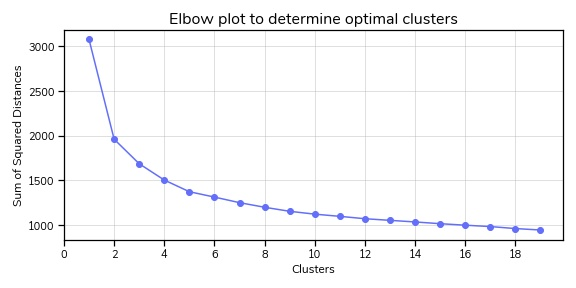
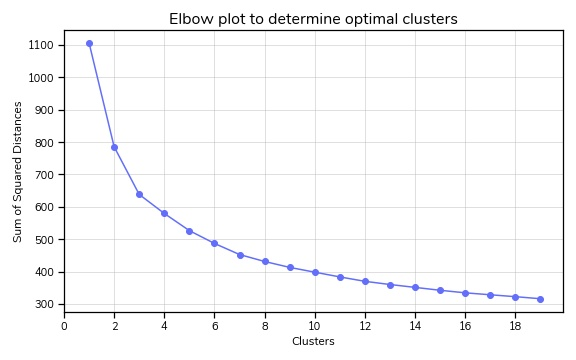
Adding Story.md, resizing plots

Changed region(s): [[0.0, 0.0312, 1.0, 0.9688]]

diff --git a/README.md b/README.md
@@ -6,10 +6,11 @@ A Data Geek's take on the question ***'How have music tastes changed through the
 ![](/images/window_vinyl.jpg)
 <span>Photo by <a href="https://unsplash.com/@shutters_guild?utm_source=unsplash&amp;utm_medium=referral&amp;utm_content=creditCopyText">Travis Yewell</a> on <a href="https://unsplash.com/@tanulmathur/likes?utm_source=unsplash&amp;utm_medium=referral&amp;utm_content=creditCopyText">Unsplash</a></span>
 
+This project is an attempt to collect relevant evidence (data) and analyzing it to get answers for these questions - 
 
-I'm sure many of you would have gone through the following conversation with your parents at some point during your childhood "What is this noise you are listening to? In 'our days' we listened to actual songs with beautiful melodies and soul-touching tunes, not this cacophony of monkeys with instruments!"  To me this always sounded like a classic generalization, a blanket statement comparing the music tastes of generations irrespective of the differences in personal preference. Brushing it aside as generation gap, I never gave second thought to it until recently when I was listening to some of the latest chartbusters of 2021. I couldn't help but think that the tables had turned and I had the same opinion about today's songs as my parents had about the songs I listened to in my childhood. This left me wondering are music trends actually shifting? Are the same kind of songs popular that were chartbusters 50 years ago? Or have we started to love radically different songs?  
-
-This project is an attempt to collect relevant evidence (data) and analyzing it to get answers for these questions.
+* Are music trends actually shifting? 
+* Are the same kind of songs popular that were chartbusters 50 years ago? 
+* Or have we started to love radically different songs?  
 
 &nbsp;
 
@@ -18,146 +19,26 @@ Here's a snapshot of the project workflow -
 
 ![](/plots/Workflow.jpg)
 
-In order to create an unbiased sample of popular songs I decided to use [Billboard's Year-End Hot 100 US](https://en.wikipedia.org/wiki/Billboard_Year-End_Hot_100_singles_of_2020) singles charts. These charts are ideal because their ranking is based on year-long song popularity, which is measured as a combination of offline sales and airplay time. Plus it gives a consistent popularity reference from a general market point of view avoiding any personal opinions/biases. After getting said list I used track and artist names to extract their audio features from the Spotify API and created a final dataset for analysis.
+## Script Glossary
+* [TopMusicChartsScraper.py](https://github.com/tanul-mathur/music-through-the-ages/blob/master/TopMusicChartsScraper.py) - Web scraping script to get track title, artist, rank from Billboard's Wikipedia pages
+* [SpotifyGetAccessToken.py](https://github.com/tanul-mathur/music-through-the-ages/blob/master/SpotifyGetAccessToken.py) - Script to get Spotify API access token
+* [GetSpotifyFeatures.py](https://github.com/tanul-mathur/music-through-the-ages/blob/master/GetSpotifyFeatures.py) - Script to extract Audio features from the Spotify API
 
-### Spotify Audio Features
-Quick context around some of the [Spotify Audio feature definitions](https://developer.spotify.com/documentation/web-api/reference/#endpoint-get-audio-features) most relevant to this analysis using definitions mentioned on their website : 
+## Story
+[Link to the full story](./Story.md)
 
-* **Acousticness** - A confidence measure from 0.0 to 1.0 of whether the track is acoustic. 1.0 represents high confidence the track is acoustic.
-* **Danceability** - Describes how suitable a track is for dancing based on a combination of musical elements including tempo, rhythm stability, beat strength, and overall regularity. A value of 0.0 is least danceable and 1.0 is most danceable.
-* **Energy** - Energy is a measure from 0.0 to 1.0 and represents a perceptual measure of intensity and activity. Typically, energetic tracks feel fast, loud, and noisy. For example, death metal has high energy, while a Bach prelude scores low on the scale. Perceptual features contributing to this attribute include dynamic range, perceived loudness, timbre, onset rate, and general entropy.
-* **Valence** - A measure from 0.0 to 1.0 describing the musical positiveness conveyed by a track. Tracks with high valence sound more positive (e.g. happy, cheerful, euphoric), while tracks with low valence sound more negative (e.g. sad, depressed, angry).
-
-These features are very useful for analysis since rather than representing individual genres they represent the inherent characterstics of the songs.
-
-Now that we have the technicalities covered, let's dive into the dataset and see what we can find. If you are interested in how the data extraction was done you can refer to my [github repo.](https://github.com/tanul-mathur/music-through-the-ages)
+## Key Highlight
+> One underlying theme running across clusters and time is that we love energetic dance songs. The emotional gradient of songs may have shifted to a more neutral tone from the Happy notes of the yester years but throughout the 50 years we have always loved a song that makes us groove!  
 
 &nbsp;
-
-## Data Exploration
-
-First off let's check out Summary stats of the dataset by plotting Histograms.
-
-![](/plots/data_hist.jpeg)
-
-This quickly gives a sneak peak into key highlights -
-* Valence, Acousticess, Energy, Danceability, Loudness - these seem to have the most spread
-* Most songs seem to be skewed towards the higher ranges of Danceability, Energy
-* Mode and Instrumentalness hardly show any spread. They may not be very useful for our analysis here
-* Surprise surprise, instrumental songs are rare among the Top 100s
-
-Now lets standardize these features so that they can all be compared on the same scale.
-
-Quick and dirty box plots of the *scaled* dataset to see the spread of features along the same yardstick -
-
-![](/plots/initial_data_boxplot.jpeg)
-
-Quick and dirty box plots on the standardized features makes it super clear to visualize the overall characterstics of the dataset. Few highlights appear now -
-
- * Dance, Energy, Loudness are definitely key themes, the distribution of songs seems to be skewed towards the higher side
- * Similarly on the other end of the spectrum highly speechy or acoustic songs are a rarity among the top 100
- * Valence - Emotional spectrum of the songs seems to be quite wide spread across happiness to sadness
- * Some features show little no variation across the dataset and are worth cutting loose - Key, Mode, Instrumentalness, Liveness, Duration
-
-Now that we have an understanding of the overall dataset, we need to dive deeper to analyze any shifting patterns. One way can be to use the features above and analyze them over time individually. However, this would turn out to be a siloed approach focused on individual features without any focus towards interactions or common themes among the songs. Another approach can be to group similar songs and then analyze the shifts in features, hoping to unearth some underlying themes.
-
-&nbsp;
-
-## Clustering
-
-This brings us to one of the most popular machine learning algorithms - K-Means clustering. Very simply, K-Means is an unsupervised learning algorithm which uses proximity (closeness) of data points to group them into similar clusters. Most relatable example of clustering would probably be genre-grouping of Web series, Movies, TV shows, Podcasts on any of the various streaming platforms.
-
-### Toe-Dip
-Now even after having a strong intuition to perform Clustering it is important to understand if the dataset actually has the potential of showing any clusters. This can be done by calculating a 'Hopkins Score' on the scaled dataset. Essentially this checks if the dataset is derived from a uniform distribution. If the resulting score is closer to 0 it would suggest that the data is not uniformly distributed and there is merit in using clustering techniques to classify the observations, if it is closer to 0.5 this would mean the dataset is derived from a uniform distribution and there are no underlying clusters. Generally a value less than 0.2 is considered to be acceptable for clustering. [Reference link](https://pyclustertend.readthedocs.io/en/master/) for further reading. The code looks as simple as below - 
-
-```Python
-from pyclustertend import hopkins
-hopkins(norm_stats_df, norm_stats_df.shape[0])
-```
-
-For this Top 100 songs dataset the Hopkins Score came out as ***~0.176***, indicating there were clusters waiting to be uncovered!
-
-### Elbow test
-But how many? We still need to find out the ideal number of clusters before we start implementing K-Means. Firstly, lets try out the traditional 'Elbow Plot'. In this approach we run K-means for range of cluster numbers and record the Within cluster Sum of Squared Distances(WSSD) for each of them. Next we plot the no. of clusters against their respective WSSDs hoping to find a bend/elbow point that makes it obvious what the optimal number of clusters should be. However as every experienced data scientist knows, that is rarely the case.
-
-![](./plots/elbow_plot.jpeg)
-
-
-Seems like 3 clusters is the way ahead, but doesn't feel very conclusive. We can see the reduction in SSD is not worth it after 3 clusters, but what about 7?
-
-In search of another approach to finding out optimal clusters I ended up going back to textbooks. Andy Burkiv's 100 page ML book illustrates an interesting ML approach of calculating **prediction strength** of clusters. The concept is to split the dataset into train/ test, implement clustering on both of them and then compare clusters formed in each of these to determine what %age of points are tagged to the same centroids across train and test. Recommended further reading in the [book](http://themlbook.com/).
-
-Also discovered this [article](https://towardsdatascience.com/prediction-strength-a-simple-yet-relatively-unknown-way-to-evaluate-clustering-2e5eaf56643) online that illustrates the concept with an example.
-
-It's well beyond the scope of this article to get much deeper into the calculations of prediction strength. Let's move on for now and see what prediction strengths look like for our dataset.
-
-![](./plots/prediction_strength_clusters.jpeg)
-
-Right after the 3 cluster point the prediction strength decreases to 60% and further down as the number of clusters is increased. Thus indicating that until 3 clusters the centroids tags are consistent across test and train groups for > 90% of the cases and as we increase clusters the tags become more inconsistent dropping the %age below 60%. This has now provided confidence that 3 clusters is the way to go!
-
-Now let's implement K-Means using the recommended k = 3 and analyze the clusters. First looking at the overall summary stats of the clusters, so things like - location of cluster centers in the feature space, no. of songs in each cluster.  
-
-![](./plots/cluster_summary.jpeg)
-
-Almost half of the songs are tagged into cluster '1', followed by '0' and '2'. The Cluster centers definitely look interesting but it's difficult to compare them on a table, let's see if we can visualize these in a different way.
-
-&nbsp;
-
-![](./plots/clusters_polar.jpeg)
-
-This Polar chart helps put the clusters into perspective, seems like -
-* 0s are Neutral songs with relatively high energy/loudness     - Neutral Energetic
-* 1s are Happy songs with high energy/danceability              - Happy Dance
-* 2s are Soft Acoustic songs with low energy/danceability       - Soft Acoustics
-
-Now of course this is just based on the Cluster Centers (means), lets validate if these themes hold true across the whole dataset.
-
-&nbsp;
-
-![](./plots/clusters_pairplot.jpeg)
-
-Interesting! the Cluster themes definitely hold together across distributions as well!
-* All the charts across the Acousticness and Valence rows clearly demarcate the 'Happy Dance' & 'Soft Acoustic' clusters
-* Especially Acousticness vs Valence - 'Soft Acoustic' songs are bunched on the right-side of the chart. While 'Happy Dance' on the top-left with low acousticness and high valence. Lastly 'Neutral Energetic' on the bottom left are low in both the features
-* The Kernel Density plots also provide helpful insight into the 'Neutral Energetic' cluster, apart from being skewed towards the Neutral-Sad emotional zone these are relatively louder songs, similar energy but lower danceability compared to the 'Happy Dance' songs
-* It's hard to differentiate the clusters in terms of Tempo and speechiness, these are consistent throughout the clusters
-
-Overall quite happy with how the clusters have turned out. One final check to see how cluster features hold up along the years.
-Since I've deliberately excluded 'year' as a feature while clustering this shouldn't be much of an issue.
-
-![](./plots/cluster_features_timeline.jpeg)
-
-These charts show the trends of respective feature means by clusters and time. (I've ignored Tempo & Speechiness from these as they are not relevant to the clusters) For example let's look at the top left chart, which draws the mean values for acousticness by clusters and years. Here we can see that the songs from 'Soft Acoustic' cluster are significantly higher than the remaining clusters and this remains the case throughout the 50 years. Similar trends can be seen across the other charts as well, individual cluster means remain distinct throughout. These trends further validate the consistency of clusters across the years.
-
-Alright so just to recap till now we have created the dataset with 50 years of Top 100 songs along with their audio features, identified song clusters, defined their themes and validated them against the overall dataset and throughout time. Next it's time to answer the big question.
-
-&nbsp;
-
-## How have music trends shifted in the last 50 years?
-
-![](./plots/cluster_songs_timeline.jpeg)
-
-Voila! Music trends have certainly shifted over time!
-* 'Neutral Energetic' songs have increasingly become more and more popular. Starting of from just 12% songs in the Top 100s in the 1970s this category has come up to become the most popular one in the 2010s with majority share of songs of 57%
-* 'Soft Acoustic' songs have lost the most popularity. Fan favorites during the 1970s with 37% share, they have now dropped to only 12% in the 2010s
-* 'Happy Dance' songs certainly seems to be a timelessly popular category till 2000s, but even their share has dropped to only 31% in the 2010s
-
-One underlying theme running across clusters and time is that we love energetic dance songs. The emotional gradient of songs may have shifted to a more neutral tone from the Happy notes of the yester years but throughout the 50 years we have always loved a song that makes us groove!  
-
-&nbsp;
-
-## Conclusion
-Well this brings us to the end of the project for now. Here I've used Web scraping, Audio features from the Spotify API and the K-means clustering algorithm to show that music tastes have indeed shifted in the past 50 years. While there isn't a radical shift in the popularity of danceable & energetic songs (they remain timeless favorites), the emotional gradient has certainly shifted from 'Happy' to more 'Neutral' notes. Hopefully this project shows how we can use/extract relevant data, open source libraries and machine learning to answer seemingly abstract questions.
 
 ## Next Steps
-There are few more interesting areas where I feel this project can be expanded -
+There are few more interesting areas where I would like to expand this project -
 1. Expanding coverage to include songs from (a) 1945, (b) other markets UK, India, etc.
 2. Adding other dimensions of audio data like - genre, lyrics, major instruments used, etc.
 3. It will be great to get sales information around individual albums to give depth into popularity beyond Billboard chart ranks
 4. Web app to let users upload their favorite tracks and predict their age range
 5. Web app that lets users create Spotify playlist of any year's Billboard Top 100 songs
 
-
+## App
 Feel like playing around the dataset? Wonder which artist has the most Hits? Spoiler alert it's not Pink Floyd! Is The Weeknd on there? wait what-about The Beatles?? Head over to the Streamlit app and explore where your favorite artists are among the Top 100 and how their songs have evolved!
-
-Thanks for reading. Hope you had fun, I definitely did. :)

diff --git a/Story.md b/Story.md
@@ -1,0 +1,163 @@
+# Music Through the Ages
+
+A Data Geek's take on the question ***'How have music tastes changed through the years?'***
+
+
+![](/images/window_vinyl.jpg)
+<span>Photo by <a href="https://unsplash.com/@shutters_guild?utm_source=unsplash&amp;utm_medium=referral&amp;utm_content=creditCopyText">Travis Yewell</a> on <a href="https://unsplash.com/@tanulmathur/likes?utm_source=unsplash&amp;utm_medium=referral&amp;utm_content=creditCopyText">Unsplash</a></span>
+
+
+I'm sure many of you would have gone through the following conversation with your parents at some point during your childhood "What is this noise you are listening to? In 'our days' we listened to actual songs with beautiful melodies and soul-touching tunes, not this cacophony of monkeys with instruments!"  To me this always sounded like a classic generalization, a blanket statement comparing the music tastes of generations irrespective of the differences in personal preference. Brushing it aside as generation gap, I never gave second thought to it until recently when I was listening to some of the latest chartbusters of 2021. I couldn't help but think that the tables had turned and I had the same opinion about today's songs as my parents had about the songs I listened to in my childhood. This left me wondering are music trends actually shifting? Are the same kind of songs popular that were chartbusters 50 years ago? Or have we started to love radically different songs?  
+
+This project is an attempt to collect relevant evidence (data) and analyzing it to get answers for these questions.
+
+&nbsp;
+
+## Workflow
+Here's a snapshot of the project workflow -
+
+![](/plots/Workflow.jpg)
+
+In order to create an unbiased collection of popular music I decided to use songs from [Billboard's Year-End Hot 100 US singles charts.](https://en.wikipedia.org/wiki/Billboard_Year-End_Hot_100_singles_of_2020) These charts are ideal because their ranking is based on year-long song popularity, which is measured as a combination of offline sales and airplay time. Plus it gives a consistent popularity reference from a general market point of view avoiding any personal opinions/biases. After scraping said list from their Wikipedia pages I used track and artist names to extract audio features from the Spotify API and created a final dataset for analysis. 
+
+### Spotify Audio Features
+Quick context around some of the [Spotify Audio feature definitions](https://developer.spotify.com/documentation/web-api/reference/#endpoint-get-audio-features) most relevant to this analysis (using definitions as mentioned on the official website) : 
+
+* **Acousticness** - A confidence measure from 0.0 to 1.0 of whether the track is acoustic. 1.0 represents high confidence the track is acoustic.
+* **Danceability** - Describes how suitable a track is for dancing based on a combination of musical elements including tempo, rhythm stability, beat strength, and overall regularity. A value of 0.0 is least danceable and 1.0 is most danceable.
+* **Energy** - Energy is a measure from 0.0 to 1.0 and represents a perceptual measure of intensity and activity. Typically, energetic tracks feel fast, loud, and noisy. For example, death metal has high energy, while a Bach prelude scores low on the scale. Perceptual features contributing to this attribute include dynamic range, perceived loudness, timbre, onset rate, and general entropy.
+* **Valence** - A measure from 0.0 to 1.0 describing the musical positiveness conveyed by a track. Tracks with high valence sound more positive (e.g. happy, cheerful, euphoric), while tracks with low valence sound more negative (e.g. sad, depressed, angry).
+* **Loudness** - The overall loudness of a track in decibels (dB). Loudness values are averaged across the entire track and are useful for comparing relative loudness of tracks. Loudness is the quality of a sound that is the primary psychological correlate of physical strength (amplitude). Values typical range between -60 and 0 db.
+
+These features are very useful for analysis since rather than representing individual genres they represent the inherent characterstics of the songs.
+
+Now that we have the technicalities covered, let's dive into the dataset and see what we can find. If you are interested in how the data extraction was done you can refer to my [github repo.](https://github.com/tanul-mathur/music-through-the-ages)
+
+&nbsp;
+
+## Data Exploration
+
+First off let's check out Summary stats of the dataset by plotting Histograms.
+
+![](/plots/data_hist.jpeg)
+
+This quickly gives a sneak peak into key highlights -
+* Valence, Acousticess, Energy, Danceability, Loudness - these seem to have the most spread
+* Most songs seem to be skewed towards the higher ranges of Danceability, Energy
+* Mode and Instrumentalness hardly show any spread. They may not be very useful for our analysis here
+* Surprise surprise, instrumental songs are rare among the Top 100s
+
+Now lets standardize these features so that they can all be compared on the same scale.
+
+![](/plots/initial_data_boxplot.jpeg)
+
+Quick and dirty box plots on the standardized features makes it super clear to visualize the overall characterstics of the dataset. Few highlights appear now -
+
+ * Dance, Energy, Loudness are definitely key themes, the distribution of songs seems to be skewed towards the higher side
+ * Similarly on the other end of the spectrum highly speechy or acoustic songs are a rarity among the top 100
+ * Valence - Emotional spectrum of the songs seems to be quite wide spread across happiness to sadness
+ * Some features show little no variation across the dataset and are worth cutting loose - Key, Mode, Instrumentalness, Liveness, Duration
+
+Now that we have an understanding of the overall dataset, we need to dive deeper to analyze any shifting patterns. One way can be to use the features above and analyze them over time individually. However, this would turn out to be a siloed approach focused on individual features without any focus towards interactions or common themes among the songs. Another approach can be to group similar songs and then analyze the shifts in features, hoping to unearth some underlying themes.
+
+&nbsp;
+
+## Clustering
+
+This brings us to one of the most popular machine learning algorithms - K-Means clustering. Very simply, K-Means is an unsupervised learning algorithm which uses proximity (closeness) of data points to group them into similar clusters. Most relatable example of clustering would probably be genre-grouping of Web series, Movies, TV shows, Podcasts on any of the various streaming platforms.
+
+### Toe-Dip
+Now even after having a strong intuition to perform Clustering it is important to understand if the dataset actually has the potential of showing any clusters. This can be done by calculating a 'Hopkins Score' on the scaled dataset. Essentially this checks if the dataset is derived from a uniform distribution. If the resulting score is closer to 0 it would suggest that the data is not uniformly distributed and there is merit in using clustering techniques to classify the observations, if it is closer to 0.5 this would mean the dataset is derived from a uniform distribution and there are no underlying clusters. Generally a value less than 0.2 is considered to be acceptable for clustering. [Reference link](https://pyclustertend.readthedocs.io/en/master/) for further reading. The code looks as simple as below - 
+
+```Python
+from pyclustertend import hopkins
+hopkins(norm_stats_df, norm_stats_df.shape[0])
+```
+
+For this Top 100 songs dataset the Hopkins Score came out as ***~0.176***, indicating there were clusters waiting to be uncovered!
+
+### Elbow test
+But how many? We still need to find out the ideal number of clusters before we start implementing K-Means. Firstly, lets try out the traditional 'Elbow Plot'. In this approach we run K-means for range of cluster numbers and record the Within cluster Sum of Squared Distances(WSSD) for each of them. Next we plot the no. of clusters against their respective WSSDs hoping to find a bend/elbow point that makes it obvious what the optimal number of clusters should be. However as every experienced data scientist knows, that is rarely the case.
+
+![](./plots/elbow_plot.jpeg)
+
+
+Seems like 3 clusters is the way ahead, but doesn't feel very conclusive. We can see the reduction in SSD is not worth it after 3 clusters, but what about 7?
+
+### Cluster Prediction Strength
+In search of another approach to finding out optimal clusters I ended up going back to textbooks. Andy Burkiv's 100 page ML book illustrates an interesting ML approach of calculating **prediction strength** of clusters. The concept is to split the dataset into train/ test, implement clustering on both of them and then compare clusters formed in each of these to determine what %age of points are tagged to the same centroids across train and test. Recommended further reading in the [book](http://themlbook.com/).
+
+Also discovered this great [article](https://towardsdatascience.com/prediction-strength-a-simple-yet-relatively-unknown-way-to-evaluate-clustering-2e5eaf56643) online that illustrates the concept with an example.
+
+It's well beyond the scope of this article to get much deeper into the calculations of prediction strength. Let's move on for now and see what prediction strengths look like for our dataset.
+
+![](./plots/prediction_strength_clusters.jpeg)
+
+Right after the 3 cluster point the prediction strength decreases to 60% and further down as the number of clusters is increased. Thus indicating that until 3 clusters the centroids tags are consistent across test and train groups for > 90% of the cases and as we increase clusters the tags become more inconsistent dropping the %age below 60%. This has now provided confidence that 3 clusters is the way to go!
+
+Now let's implement K-Means using the recommended k = 3 and analyze the clusters. First looking at the overall summary stats of the clusters, i.e. - location of cluster centers in the feature space, no. of songs in each cluster.  
+
+![](./plots/cluster_summary.jpeg)
+
+Almost half of the songs are tagged into cluster '1', followed by '0' and '2'. The Cluster centers definitely look interesting but it's difficult to compare them on a table, let's see if we can visualize these in a different way.
+
+&nbsp;
+
+![](./plots/clusters_polar.jpeg)
+
+This Polar chart helps put the clusters into perspective, seems like -
+* 0s are Neutral songs with relatively high energy/loudness     - Neutral Energetic
+* 1s are Happy songs with high energy/danceability              - Happy Dance
+* 2s are Soft Acoustic songs with low energy/danceability       - Soft Acoustics
+
+Now of course this is just based on the Cluster Centers (means), lets validate if these themes hold true across the whole dataset.
+
+&nbsp;
+
+![](./plots/clusters_pairplot.jpeg)
+
+Interesting! the Cluster themes definitely hold together across distributions as well!
+* All the charts across the Acousticness and Valence rows clearly demarcate the 'Happy Dance' & 'Soft Acoustic' clusters
+* Especially Acousticness vs Valence - 'Soft Acoustic' songs are bunched on the right-side of the chart. While 'Happy Dance' on the top-left with low acousticness and high valence. Lastly 'Neutral Energetic' on the bottom left are low in both the features
+* The Kernel Density plots also provide helpful insight into the 'Neutral Energetic' cluster, apart from being skewed towards the Neutral-Sad emotional zone these are relatively louder songs, similar energy but lower danceability compared to the 'Happy Dance' songs
+* It's hard to differentiate the clusters in terms of Tempo and speechiness, these are consistent throughout the clusters
+
+Overall quite happy with how the clusters have turned out. One final check to see how cluster features hold up along the years.
+Since I've deliberately excluded 'year' as a feature while clustering this shouldn't be much of an issue.
+
+![](./plots/cluster_features_timeline.jpeg)
+
+These charts show the trends of respective feature means by clusters and time. (I've ignored Tempo & Speechiness from these as they are not relevant to the clusters) For example let's look at the top left chart, which draws the mean values for acousticness by clusters and years. Here we can see that the songs from 'Soft Acoustic' cluster are significantly higher than the remaining clusters and this remains the case throughout the 50 years. Similar trends can be seen across the other charts as well, individual cluster means remain distinct throughout. These trends further validate the consistency of clusters across the years.
+
+Alright so just to recap till now we have created the dataset with 50 years of Top 100 songs along with their audio features, identified song clusters, defined their themes and validated them against the overall dataset and throughout time. Next it's time to answer the big question.
+
+&nbsp;
+
+## How have music trends shifted in the last 50 years?
+
+![](./plots/cluster_songs_timeline.jpeg)
+
+Voila! Music trends have certainly shifted over time!
+* 'Neutral Energetic' songs have increasingly become more and more popular. Starting of from just 12% songs in the Top 100s in the 1970s this category has come up to become the most popular one in the 2010s with majority share of songs of 57%
+* 'Soft Acoustic' songs have lost the most popularity. Fan favorites during the 1970s with 37% share, they have now dropped to only 12% in the 2010s
+* 'Happy Dance' songs certainly seems to be a timelessly popular category till 2000s, but even their share has dropped to only 31% in the 2010s
+
+One underlying theme running across clusters and time is that we love energetic dance songs. The emotional gradient of songs may have shifted to a more neutral tone from the Happy notes of the yester years but throughout the 50 years we have always loved a song that makes us groove!  
+
+&nbsp;
+
+## Conclusion
+Well this brings us to the end of the project for now. Here I've used Web scraping, Audio features from the Spotify API and the K-means clustering algorithm to show that music tastes have indeed shifted in the past 50 years. While there isn't a radical shift in the popularity of danceable & energetic songs (they remain timeless favorites), the emotional gradient has certainly shifted from 'Happy' to more 'Neutral' notes. Hopefully this project shows how we can use/extract relevant data, open source libraries and machine learning to answer seemingly abstract questions.
+
+## Next Steps
+There are few more interesting areas where I would like to expand this project -
+1. Expanding coverage to include songs from (a) 1945, (b) other markets UK, India, etc.
+2. Adding other dimensions of audio data like - genre, lyrics, major instruments used, etc.
+3. It will be great to get sales information around individual albums to give depth into popularity beyond Billboard chart ranks
+4. Web app to let users upload their favorite tracks and predict their age range
+5. Web app that lets users create Spotify playlist of any year's Billboard Top 100 songs
+
+## Music through the Ages App
+Feel like playing around the dataset? Wonder which artist has the most Hits? Spoiler alert it's not Pink Floyd! Is The Weeknd on there? wait what-about The Beatles?? Head over to the Streamlit app and explore where your favorite artists are among the Top 100 and how their songs have evolved!
+
+Thanks for reading. Hope you had fun, I definitely did. :smiley:
